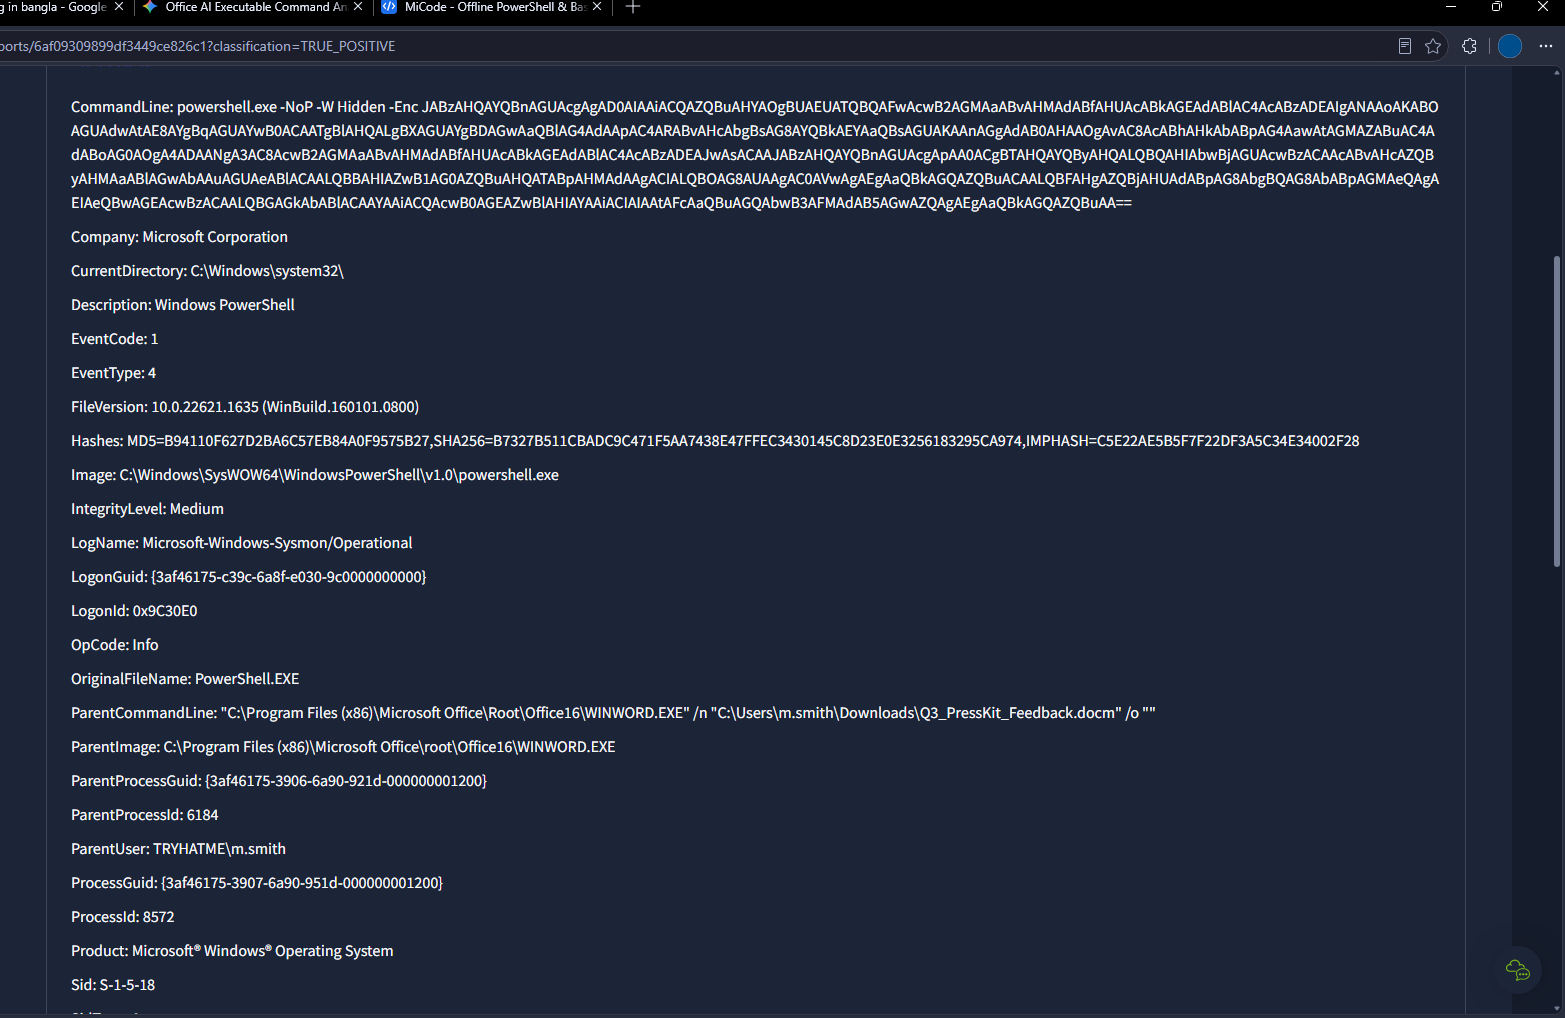
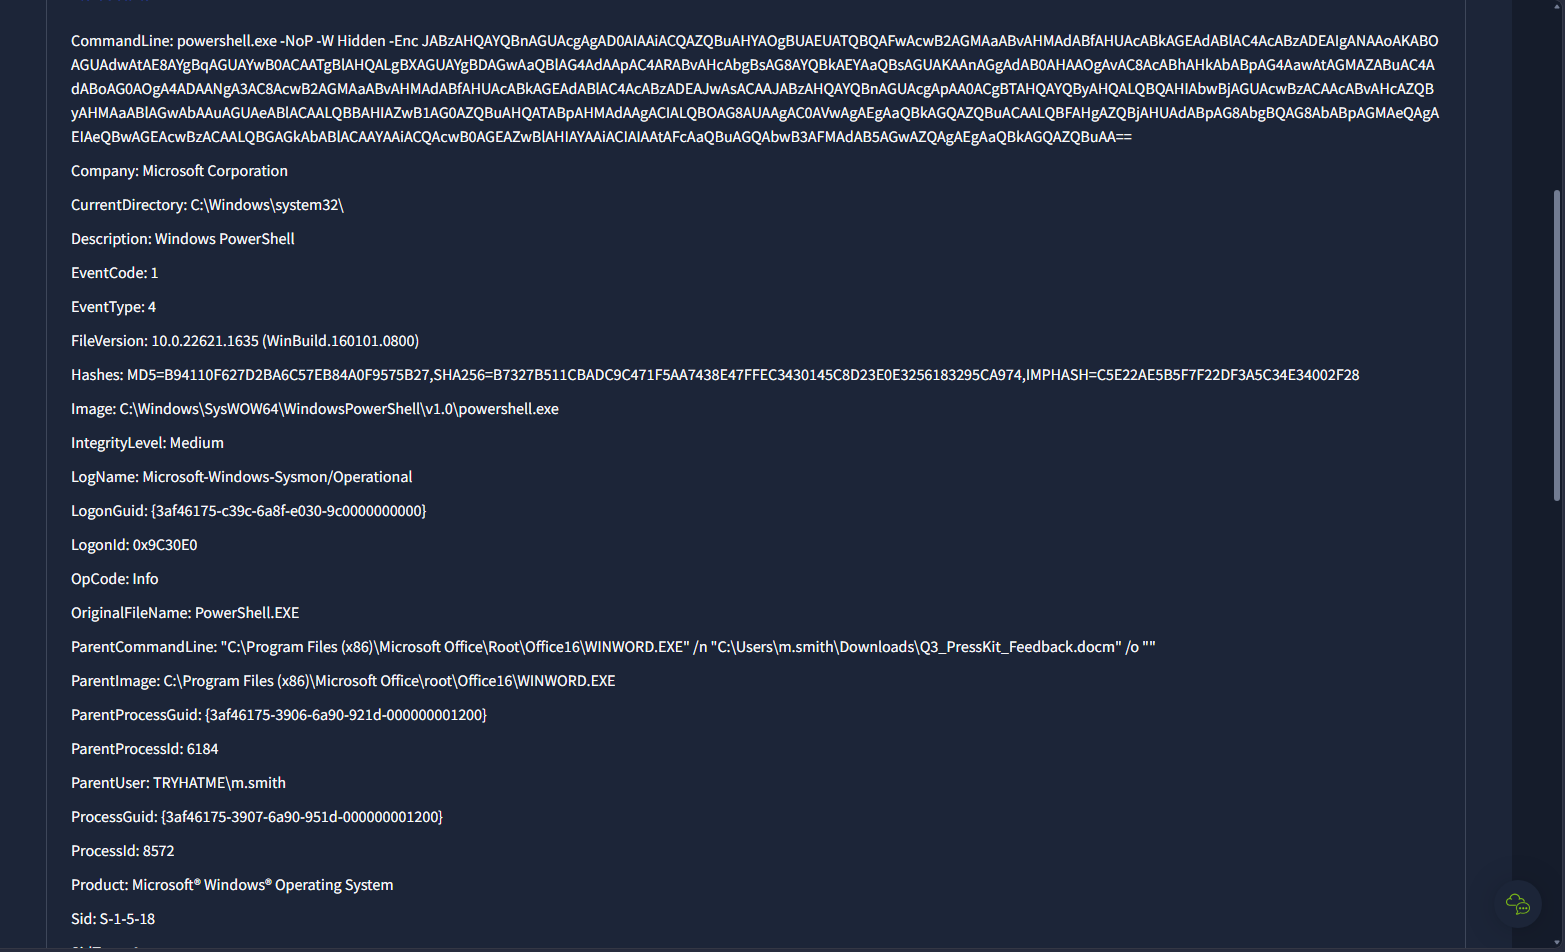
fix(case-04): replace MiCode screenshot with live URL and crop browser header from sysmon evidence

diff --git a/cases/case-04-macro-foothold-to-exfiltration/investigation.md b/cases/case-04-macro-foothold-to-exfiltration/investigation.md
@@ -60,7 +60,7 @@ Sysmon Event ID 1 capturing `WINWORD.EXE` launching an obfuscated PowerShell pro
 ![Alert 6353 Word Macro Execution](screenshots/03-alert-6353-word-macro-powershell.png)
 
 #### Evidence 4: Ingress Stager De-Obfuscation via MiCode (Custom Analyst Tool)
-The obfuscated `-Enc` parameter extracted from Sysmon Event ID 1 was decoded using **MiCode**, a custom offline PowerShell & Base64 decoder developed by the analyst. Decoding the payload offline ensures sensitive command parameters are analyzed safely without leaking operational telemetry to public online web services. The decoded output revealed the staging URL `http://paylink-cdn[.]thm:8067/svchost_update.ps1` and staging path `%TEMP%\svchost_update.ps1`:
+The obfuscated `-Enc` parameter extracted from Sysmon Event ID 1 was decoded using **[MiCode](https://mahialjaber.github.io/MiCode/)**, a custom offline PowerShell & Base64 decoder developed by the analyst. Decoding the payload offline ensures sensitive command parameters are analyzed safely without leaking operational telemetry to public online web services. The decoded output revealed the staging URL `http://paylink-cdn[.]thm:8067/svchost_update.ps1` and staging path `%TEMP%\svchost_update.ps1`:
 ![MiCode Decoded Stager](screenshots/04-micode-decoded-stager.png)
 
 #### Evidence 5: Threat Intelligence Enrichment on C2 IP (VirusTotal)
